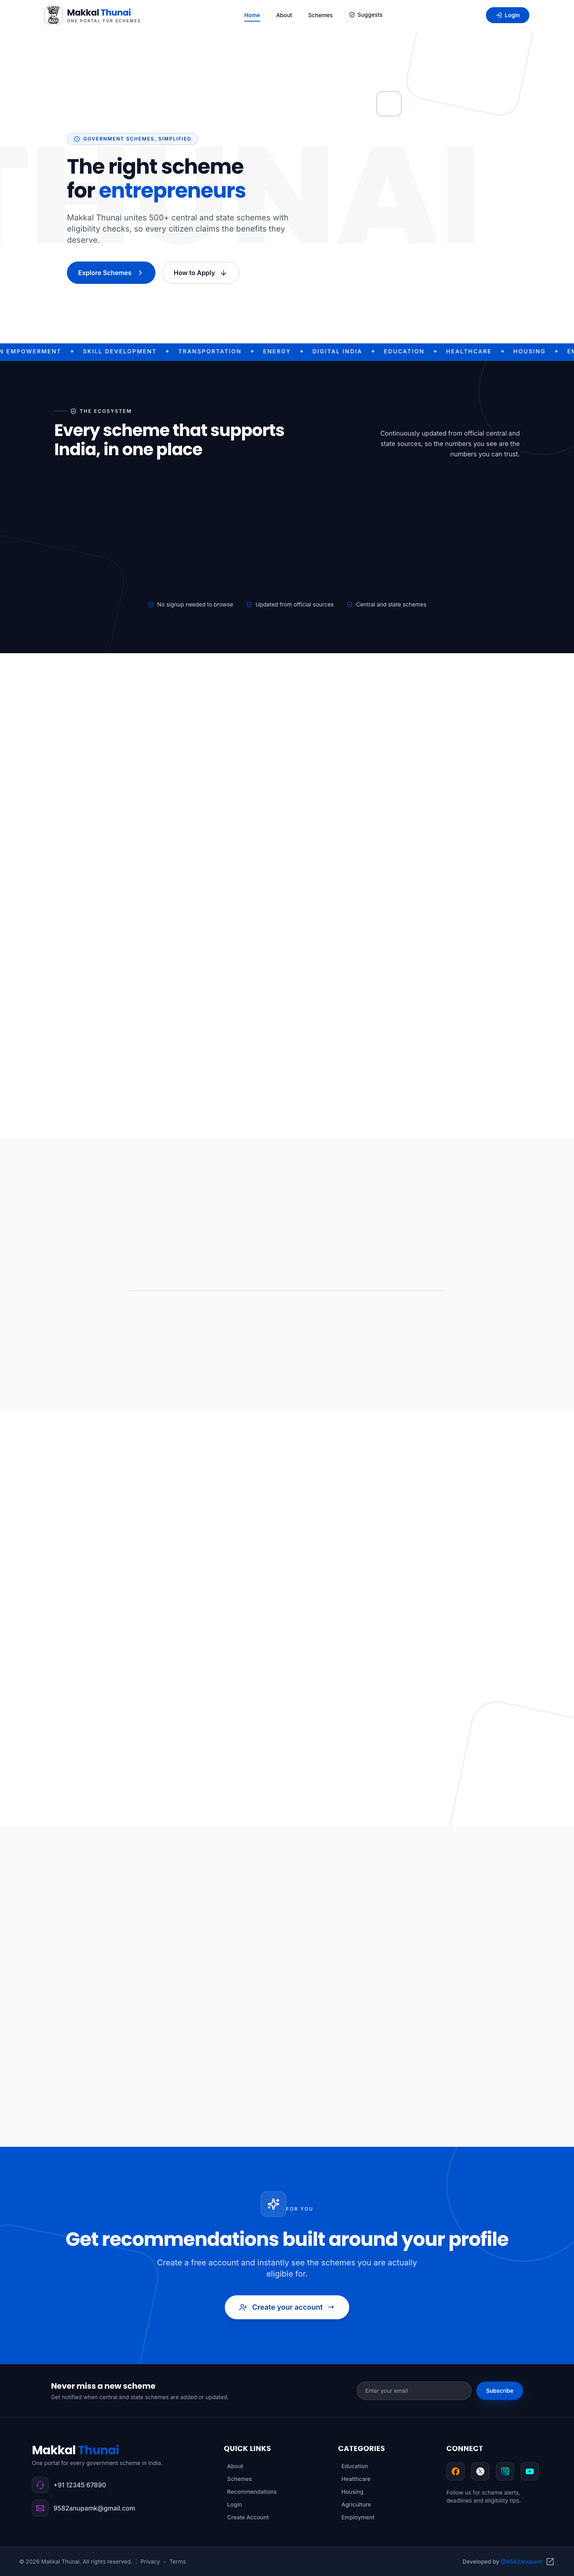
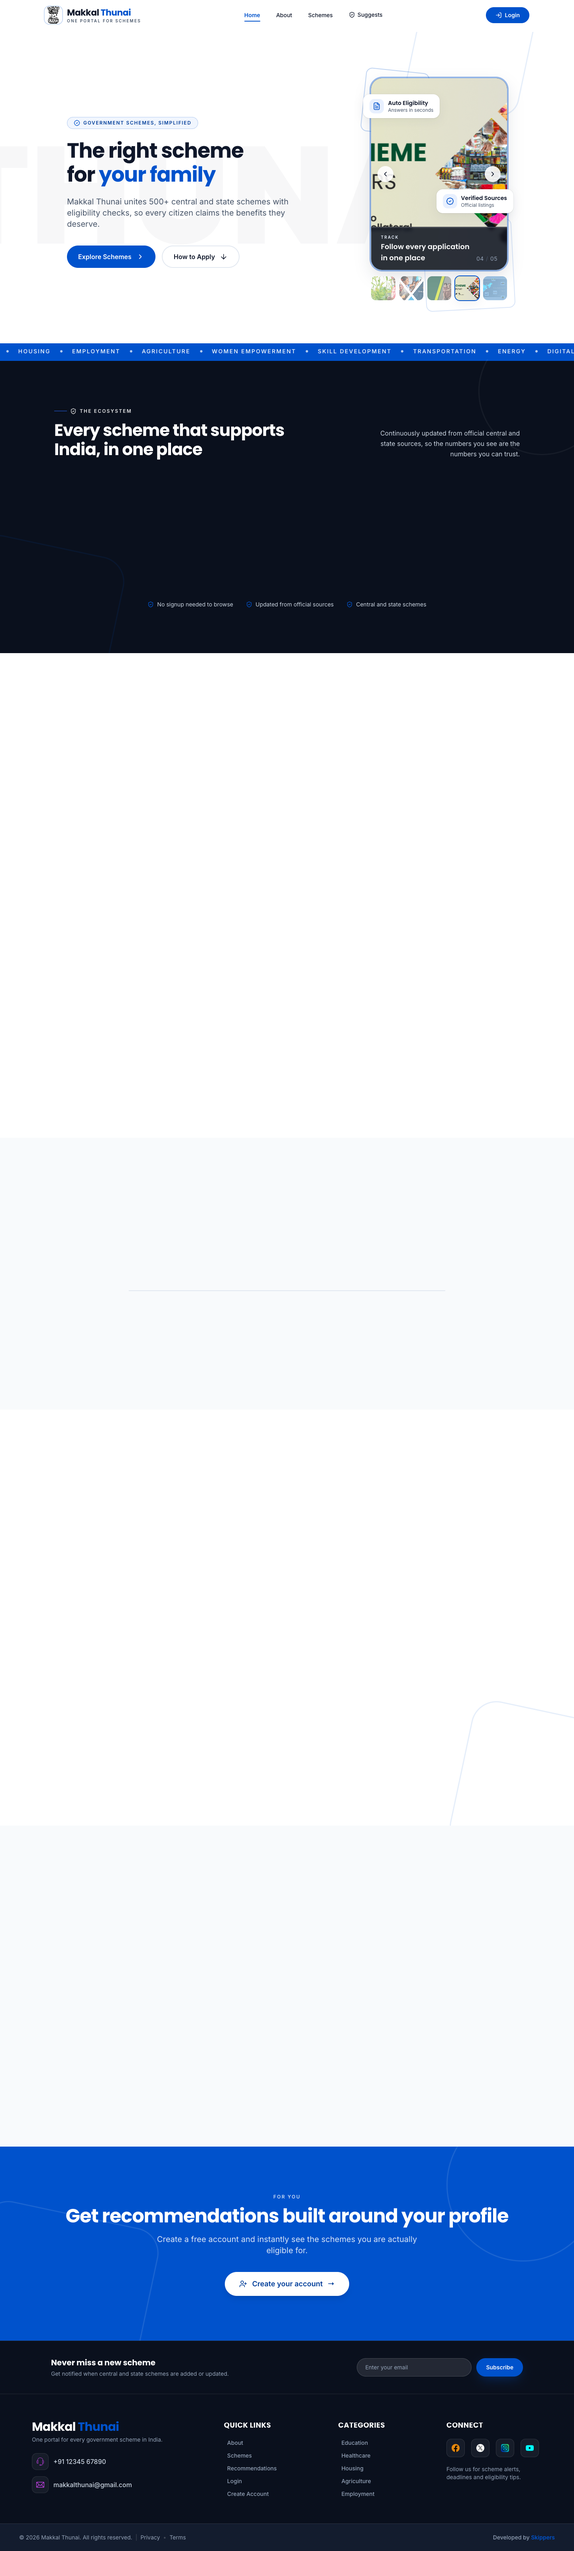
updaeted frontend

Changed region(s): [[0.0, 0.0311, 1.0, 0.1869], [0.0, 0.8097, 1.0, 0.9031], [0.875, 0.9654, 0.9062, 0.9966]]

diff --git a/frontend/src/components/pages/home/components/HeroCarousel.js b/frontend/src/components/pages/home/components/HeroCarousel.js
@@ -1,0 +1,238 @@
+import React, { useCallback, useEffect, useRef, useState } from "react";
+import { ChevronLeft, ChevronRight } from "lucide-react";
+import banner1 from "../../../../assets/banner1.png";
+import banner2 from "../../../../assets/banner2.webp";
+import banner3 from "../../../../assets/banner3.jpg";
+import banner4 from "../../../../assets/banner4.jpg";
+import banner5 from "../../../../assets/banner5.jpg";
+
+const SLIDES = [
+    {
+        src: banner2,
+        tag: "Discover",
+        title: "Every scheme you qualify for, at a glance",
+        alt: "Citizen browsing government schemes on the Makkal Thunai portal",
+    },
+    {
+        src: banner3,
+        tag: "Eligibility",
+        title: "Check eligibility in under two minutes",
+        alt: "Quick eligibility check for government schemes",
+    },
+    {
+        src: banner4,
+        tag: "Apply",
+        title: "Apply online, without the paperwork",
+        alt: "Simple online application form for a government scheme",
+    },
+    {
+        src: banner5,
+        tag: "Track",
+        title: "Follow every application in one place",
+        alt: "Application status tracking on the Makkal Thunai portal",
+    },
+    {
+        src: banner1,
+        tag: "Support",
+        title: "Support for every stage of life",
+        alt: "Support across education, health, housing and work",
+    },
+];
+
+const AUTOPLAY_MS = 3500;
+
+const HeroCarousel = () => {
+    const [index, setIndex] = useState(0);
+    const [paused, setPaused] = useState(false);
+    const [noTransition, setNoTransition] = useState(false);
+    const [swipeDelta, setSwipeDelta] = useState(0);
+    const [swiping, setSwiping] = useState(false);
+    const touchStartX = useRef(null);
+    const indexRef = useRef(0);
+    const count = SLIDES.length;
+    const reducedMotion = useRef(false);
+
+    useEffect(() => {
+        reducedMotion.current =
+            window.matchMedia?.("(prefers-reduced-motion: reduce)")?.matches ?? false;
+    }, []);
+
+    useEffect(() => {
+        indexRef.current = index;
+    }, [index]);
+
+    /* Jump to a slide; wrapping around snaps instantly instead of rewinding */
+    const goTo = useCallback(
+        (next) => {
+            if (next >= count || next < 0) {
+                setNoTransition(true);
+                setIndex(((next % count) + count) % count);
+                requestAnimationFrame(() =>
+                    requestAnimationFrame(() => setNoTransition(false))
+                );
+            } else {
+                setIndex(next);
+            }
+        },
+        [count]
+    );
+
+    const advance = useCallback(() => goTo(indexRef.current + 1), [goTo]);
+
+    /* Autoplay — pauses on hover/focus, on hidden tabs, and for reduced motion */
+    useEffect(() => {
+        if (paused || reducedMotion.current) return undefined;
+        const timer = setInterval(() => {
+            if (!document.hidden) advance();
+        }, AUTOPLAY_MS);
+        return () => clearInterval(timer);
+    }, [paused, advance]);
+
+    const onKeyDown = (event) => {
+        if (event.key === "ArrowLeft") goTo(index - 1);
+        if (event.key === "ArrowRight") goTo(index + 1);
+    };
+
+    /* Touch swipe — drag the track, release to snap to the next/previous slide */
+    const onTouchStart = (event) => {
+        touchStartX.current = event.touches[0].clientX;
+        setSwiping(true);
+        setSwipeDelta(0);
+        setPaused(true);
+    };
+    const onTouchMove = (event) => {
+        if (touchStartX.current === null) return;
+        setSwipeDelta(touchStartX.current - event.touches[0].clientX);
+    };
+    const onTouchEnd = () => {
+        if (swipeDelta > 40) goTo(index + 1);
+        else if (swipeDelta < -40) goTo(index - 1);
+        touchStartX.current = null;
+        setSwiping(false);
+        setSwipeDelta(0);
+        setPaused(false);
+    };
+
+    return (
+        <div className="relative" onMouseEnter={() => setPaused(true)} onMouseLeave={() => setPaused(false)}>
+            {/* Frame + sliding track */}
+            <div
+                role="region"
+                aria-roledescription="carousel"
+                aria-label="Makkal Thunai highlights"
+                onFocus={() => setPaused(true)}
+                onBlur={() => setPaused(false)}
+                onKeyDown={onKeyDown}
+                tabIndex={0}
+                className={`relative rounded-[28px] overflow-hidden shadow-lift ring-1 ring-slate-900/5 bg-navy outline-none focus-visible:ring-4 focus-visible:ring-brand/40 ${
+                    paused ? "carousel-paused" : ""
+                }`}
+            >
+                <div
+                    className={`flex h-[260px] sm:h-[340px] lg:h-[480px] select-none touch-pan-y ease-[cubic-bezier(0.16,1,0.3,1)] ${
+                        noTransition || swiping ? "" : "transition-transform duration-700"
+                    }`}
+                    style={{
+                        transform: `translateX(calc(-${index * 100}% ${
+                            swiping ? `- ${swipeDelta}px` : ""
+                        }))`,
+                    }}
+                    onTouchStart={onTouchStart}
+                    onTouchMove={onTouchMove}
+                    onTouchEnd={onTouchEnd}
+                >
+                    {SLIDES.map((slide, i) => (
+                        <div
+                            key={slide.title}
+                            aria-hidden={i !== index}
+                            className="relative w-full h-full shrink-0 overflow-hidden"
+                        >
+                            <img
+                                src={slide.src}
+                                alt={i === index ? slide.alt : ""}
+                                className={`w-full h-full object-cover ${
+                                    i === index ? "slide-zoom" : ""
+                                }`}
+                                loading={i === 0 ? "eager" : "lazy"}
+                                fetchpriority={i === 0 ? "high" : "low"}
+                                decoding="async"
+                                draggable={false}
+                            />
+                            {/* Flat navy caption panel with autoplay progress */}
+                            <div className="absolute inset-x-0 bottom-0 bg-navy/85 backdrop-blur-sm">
+                                <div className="h-[3px] bg-white/15" aria-hidden="true">
+                                    <div
+                                        key={index}
+                                        className="carousel-progress-fill h-full bg-brand"
+                                        style={{ animationPlayState: paused ? "paused" : "running" }}
+                                    />
+                                </div>
+                                <div className="px-6 py-4 flex items-end justify-between gap-4">
+                                    <div>
+                                        <p className="text-[10px] font-semibold uppercase tracking-[0.22em] text-brand-light mb-0.5">
+                                            {slide.tag}
+                                        </p>
+                                        <p className="font-display font-semibold text-white text-base sm:text-lg leading-snug max-w-[24rem]">
+                                            {slide.title}
+                                        </p>
+                                    </div>
+                                    <p className="shrink-0 font-body text-sm text-slate-400 tabular-nums pb-0.5">
+                                        {String(i + 1).padStart(2, "0")}{" "}
+                                        <span className="text-slate-600 mx-0.5">/</span>{" "}
+                                        {String(count).padStart(2, "0")}
+                                    </p>
+                                </div>
+                            </div>
+                        </div>
+                    ))}
+                </div>
+
+                {/* Prev / next controls */}
+                <button
+                    type="button"
+                    onClick={() => goTo(index - 1)}
+                    aria-label="Previous slide"
+                    className="absolute left-4 top-1/2 -translate-y-1/2 z-10 w-10 h-10 rounded-full bg-white/90 text-primary shadow-card hover:bg-brand hover:text-white hover:scale-110 active:scale-95 transition-all duration-300 flex items-center justify-center"
+                >
+                    <ChevronLeft className="w-5 h-5" aria-hidden="true" />
+                </button>
+                <button
+                    type="button"
+                    onClick={() => goTo(index + 1)}
+                    aria-label="Next slide"
+                    className="absolute right-4 top-1/2 -translate-y-1/2 z-10 w-10 h-10 rounded-full bg-white/90 text-primary shadow-card hover:bg-brand hover:text-white hover:scale-110 active:scale-95 transition-all duration-300 flex items-center justify-center"
+                >
+                    <ChevronRight className="w-5 h-5" aria-hidden="true" />
+                </button>
+            </div>
+
+            {/* Thumbnail rail */}
+            <div className="mt-4 flex items-center gap-2 sm:gap-2.5">
+                {SLIDES.map((slide, i) => (
+                    <button
+                        key={slide.title}
+                        type="button"
+                        onClick={() => goTo(i)}
+                        aria-label={`Go to slide ${i + 1}: ${slide.title}`}
+                        aria-current={i === index}
+                        className={`relative flex-1 h-[52px] sm:h-[60px] rounded-xl overflow-hidden ring-2 transition-all duration-300 ${
+                            i === index
+                                ? "ring-brand shadow-card opacity-100"
+                                : "ring-transparent opacity-55 hover:opacity-90 hover:-translate-y-0.5"
+                        }`}
+                    >
+                        <img
+                            src={slide.src}
+                            alt=""
+                            loading="lazy"
+                            decoding="async"
+                            className="w-full h-full object-cover"
+                        />
+                    </button>
+                ))}
+            </div>
+        </div>
+    );
+};
+
+export default HeroCarousel;

diff --git a/frontend/src/components/pages/home/components/HeroSection.js b/frontend/src/components/pages/home/components/HeroSection.js
@@ -1,7 +1,7 @@
 import React, { useEffect, useState } from 'react';
 import { ChevronRight, FileText, BadgeCheck, ArrowDown } from 'lucide-react';
-import banner2 from "../../../../assets/banner2.webp";
 import { useNavigate } from 'react-router-dom';
+import HeroCarousel from "./HeroCarousel";
 
 const ROTATING_WORDS = ["you", "your family", "students", "farmers", "women", "entrepreneurs"];
 
@@ -44,7 +44,7 @@ const HeroSection = () => {
     ];
 
     return (
-        <section id="home" className="relative min-h-[calc(100dvh-5rem)] flex items-center bg-white overflow-hidden pt-12 lg:pt-16">
+        <section id="home" className="relative min-h-[calc(100dvh-5rem)] flex items-center bg-white overflow-hidden pt-12 lg:pt-16 pb-16 lg:pb-20">
             {/* Massive typographic background element (flat, single color) */}
             <div className="absolute top-1/2 left-0 -translate-y-1/2 -translate-x-[10%] opacity-[0.035] pointer-events-none select-none overflow-hidden hidden lg:block">
                 <span className="block text-[24vw] font-display font-extrabold leading-none whitespace-nowrap text-primary">
@@ -105,35 +105,15 @@ const HeroSection = () => {
                     </div>
                 </div>
 
-                {/* Right — framed visual with floating chips */}
-                <div className="relative w-full max-w-[560px] mx-auto lg:ml-auto animate-slide-left stagger-3 hidden md:block">
+                {/* Right — sliding image carousel with floating chips */}
+                <div className="relative w-full max-w-[560px] mx-auto lg:ml-auto animate-slide-left stagger-3 mb-4">
                     {/* Offset deco frames (flat borders) */}
                     <div className="deco-frame -top-5 -left-5 w-40 h-40 rotate-6" aria-hidden="true" />
                     <div className="deco-frame -bottom-6 -right-4 w-56 h-56 -rotate-3 border-brand/15" aria-hidden="true" />
 
-                    <div className="relative rounded-[28px] overflow-hidden shadow-lift ring-1 ring-slate-900/5 group">
-                        <img
-                            src={banner2}
-                            alt="Citizen reviewing government schemes on the Makkal Thunai portal"
-                            className="w-full h-[420px] lg:h-[520px] object-cover transition-transform duration-700 ease-out group-hover:scale-[1.04]"
-                            loading="eager"
-                            fetchpriority="high"
-                            decoding="async"
-                        />
-                        {/* Flat blue panel strip on image bottom */}
-                        <div className="absolute inset-x-0 bottom-0 bg-navy/85 backdrop-blur-sm px-6 py-4 flex items-center justify-between text-white">
-                            <p className="font-body text-sm font-medium">
-                                <span className="font-display font-bold text-lg text-white">500+</span>{" "}
-                                <span className="text-slate-300">active schemes</span>
-                            </p>
-                            <span className="h-1.5 w-1.5 rounded-full bg-brand animate-pulse-soft" aria-hidden="true" />
-                        </div>
-                    </div>
+                    <HeroCarousel />
 
-                    {/* Floating chip — eligibility */}
-                   
-                    {/* Floating chip — trusted */}
-                   
+                    
                 </div>
             </div>
 

diff --git a/frontend/src/components/common/footer/Footer.js b/frontend/src/components/common/footer/Footer.js
@@ -5,7 +5,6 @@ import facebook from "../../../utils/images/footer/facebook.png";
 import youtube from "../../../utils/images/footer/youtube.png";
 import x from "../../../utils/images/footer/twitter.png";
 import { Link } from "react-router-dom";
-import OpenInNewIcon from "@mui/icons-material/OpenInNew";
 import { useState } from "react";
 import toast from "react-hot-toast";
 
@@ -86,11 +85,11 @@ const Footer = () => {
                                 </span>
                                 <span className="font-medium group-hover:text-white transition-colors duration-300">+91 12345 67890</span>
                             </a>
-                            <a href="mailto:9582anupamk@gmail.com" className="flex items-center gap-3 group cursor-pointer">
+                            <a href="makkalthunai@gmail.com" className="flex items-center gap-3 group cursor-pointer">
                                 <span className="p-2.5 bg-white/5 rounded-xl border border-white/10 group-hover:bg-brand group-hover:border-brand transition-all duration-300 group-hover:-translate-y-0.5">
                                     <img src={mail} alt="" className="w-5 h-5 filter invert" />
                                 </span>
-                                <span className="font-medium group-hover:text-white transition-colors duration-300">9582anupamk@gmail.com</span>
+                                <span className="font-medium group-hover:text-white transition-colors duration-300">makkalthunai@gmail.com</span>
                             </a>
                         </div>
                     </div>

diff --git a/frontend/src/components/pages/home/components/Recommendations.js b/frontend/src/components/pages/home/components/Recommendations.js
@@ -39,9 +39,7 @@ const Recommendations = () => {
                 <div className="absolute -bottom-32 -left-20 w-[28rem] h-[28rem] border-[3px] border-white/10 rounded-[4rem] rotate-12 hidden lg:block pointer-events-none" aria-hidden="true" />
 
                 <div className="container mx-auto max-w-4xl relative z-10 text-center">
-                    <span className="inline-flex items-center justify-center w-16 h-16 rounded-2xl bg-white/10 border border-white/20 mb-8 animate-bounce-soft">
-                        <Sparkles className="w-8 h-8 text-white" aria-hidden="true" />
-                    </span>
+                    
                     <p className="inline-flex items-center gap-2 text-xs font-semibold uppercase tracking-[0.18em] text-white/80 mb-4">
                         For You
                     </p>

diff --git a/frontend/src/index.css b/frontend/src/index.css
@@ -71,6 +71,39 @@ code {
   padding: 0 1rem;
 }
 
+/* ---------- Hero carousel ---------- */
+
+/* Slow zoom on the active slide while it is on screen */
+@keyframes kenburns {
+  from {
+    transform: scale(1);
+  }
+  to {
+    transform: scale(1.07);
+  }
+}
+.slide-zoom {
+  animation: kenburns 7s ease-out forwards;
+  will-change: transform;
+}
+
+/* Autoplay progress bar — scales 0 -> 1 across the slide duration */
+@keyframes carousel-progress {
+  from {
+    transform: scaleX(0);
+  }
+  to {
+    transform: scaleX(1);
+  }
+}
+.carousel-progress-fill {
+  transform-origin: left center;
+  animation: carousel-progress 4.5s linear forwards;
+}
+.carousel-paused .carousel-progress-fill {
+  animation-play-state: paused;
+}
+
 /* ---------- Scroll-reveal system ---------- */
 
 .reveal {

diff --git a/frontend/src/components/pages/home/components/FAQ.js b/frontend/src/components/pages/home/components/FAQ.js
@@ -100,7 +100,7 @@ const FAQ = () => {
                                 Our team is happy to help you find the right scheme.
                             </p>
                             <a
-                                href="mailto:9582anupamk@gmail.com"
+                                href="makkalthunai@gmail.com"
                                 className="inline-flex items-center gap-2 font-body font-semibold text-sm text-white bg-white/10 hover:bg-brand transition-colors duration-300 rounded-full px-5 py-2.5"
                             >
                                 Contact support
